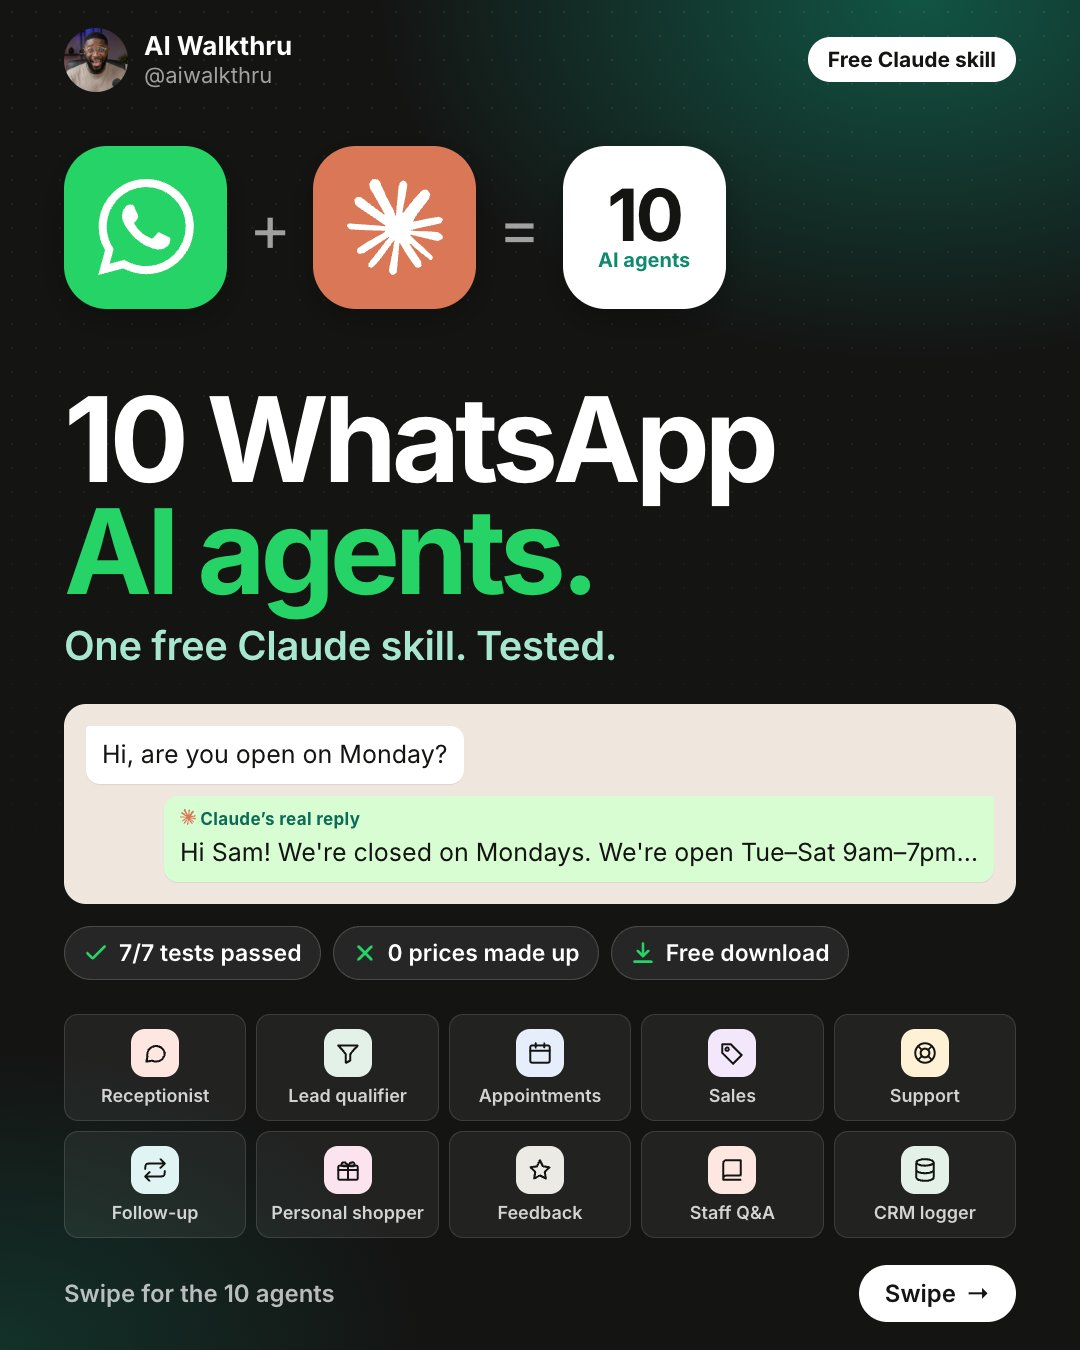
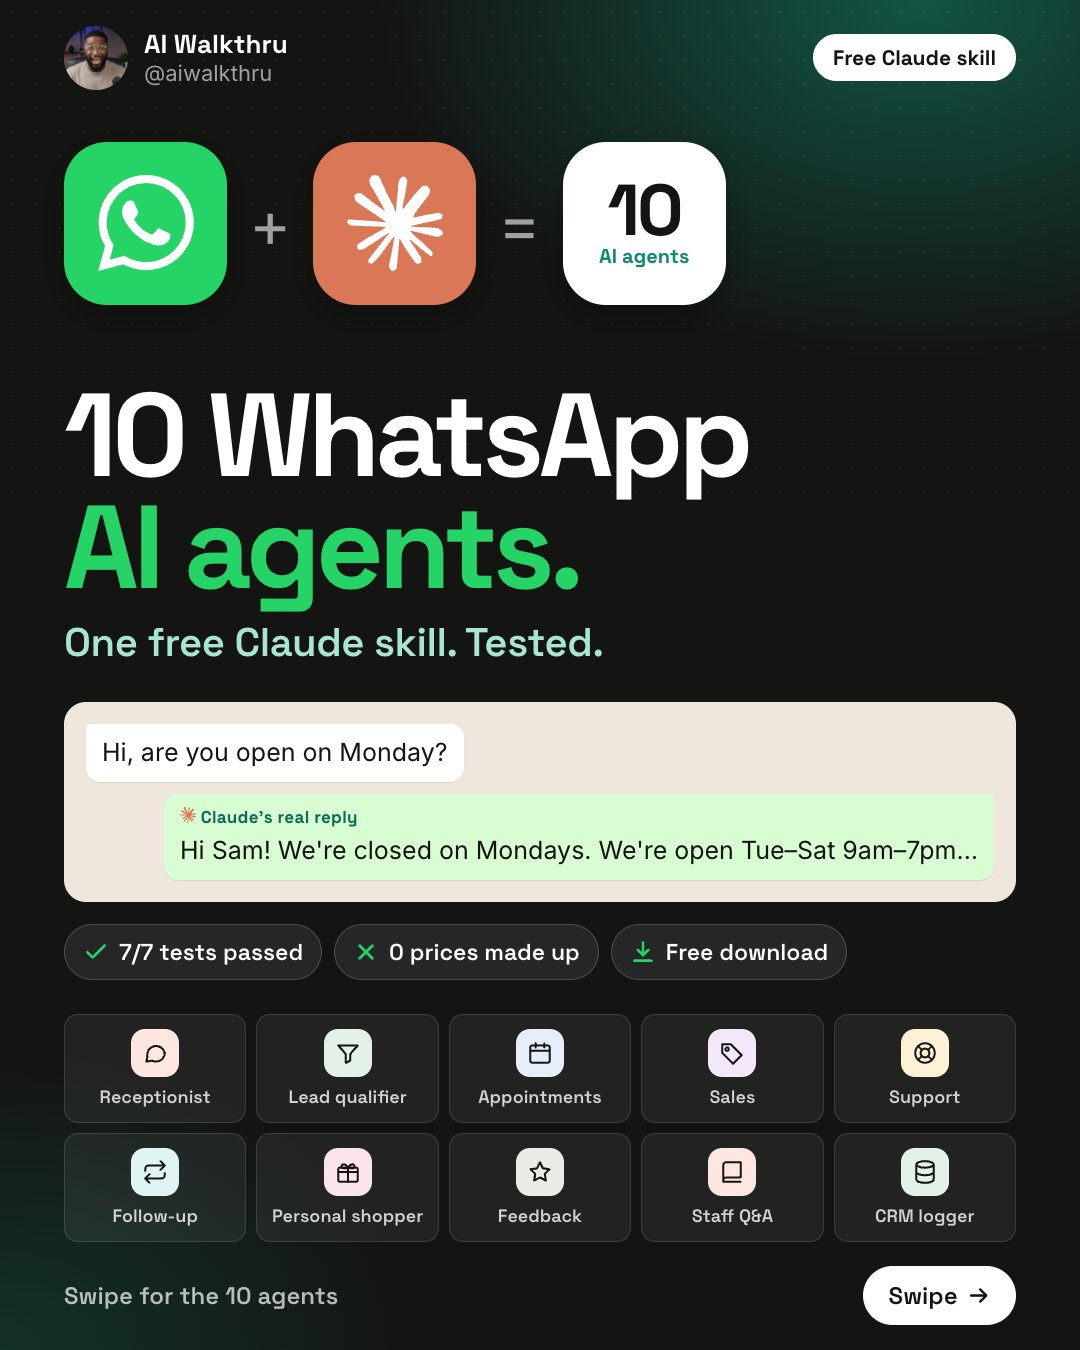
Stitch type system (Space Grotesk display, Inter body); Humanizer carousel v3 media; new covers

diff --git a/index.html b/index.html
@@ -10,7 +10,7 @@
 <meta property="og:image" content="https://clevernat.github.io/img/content-team.jpg">
 <link rel="icon" href="img/avatar.jpg">
 <link rel="preconnect" href="https://fonts.googleapis.com">
-<link href="https://fonts.googleapis.com/css2?family=Inter:wght@400;500;600;700;800&family=JetBrains+Mono:wght@500;600&display=swap" rel="stylesheet">
+<link href="https://fonts.googleapis.com/css2?family=Space+Grotesk:wght@400;500;600;700&family=Inter:wght@400;500;600;700&family=JetBrains+Mono:wght@400;500;600&display=swap" rel="stylesheet">
 <style>
 :root{--bg:#F6F5F2;--card:#fff;--ink:#141413;--mute:#6B6A66;--line:#E3E1DB;--acc:#C8553D;--acc2:#FBEDE8;--ok:#2F7D5B}
 *{box-sizing:border-box;margin:0;padding:0}
@@ -60,6 +60,10 @@ footer a{font-weight:600}
 .vc i{position:absolute;right:6px;bottom:6px;background:rgba(0,0,0,.8);color:#fff;font:600 12px Inter,sans-serif;font-style:normal;padding:2px 6px;border-radius:6px}
 .vc b{font-size:14px;line-height:1.3;padding:0 10px;display:-webkit-box;-webkit-line-clamp:3;-webkit-box-orient:vertical;overflow:hidden}
 @media(max-width:420px){.vgrid{grid-template-columns:1fr}}
+
+/* Stitch type system (user 2026-09-25): Space Grotesk display, Inter body, JetBrains Mono code */
+h1,h2,.k,.btn,.tag,.jump a,.social a,.vc b,li::before,footer a{font-family:'Space Grotesk',Inter,system-ui,sans-serif}
+h1{letter-spacing:-.04em}h2{letter-spacing:-.03em}.k{letter-spacing:.08em}
 </style>
 </head>
 <body>
